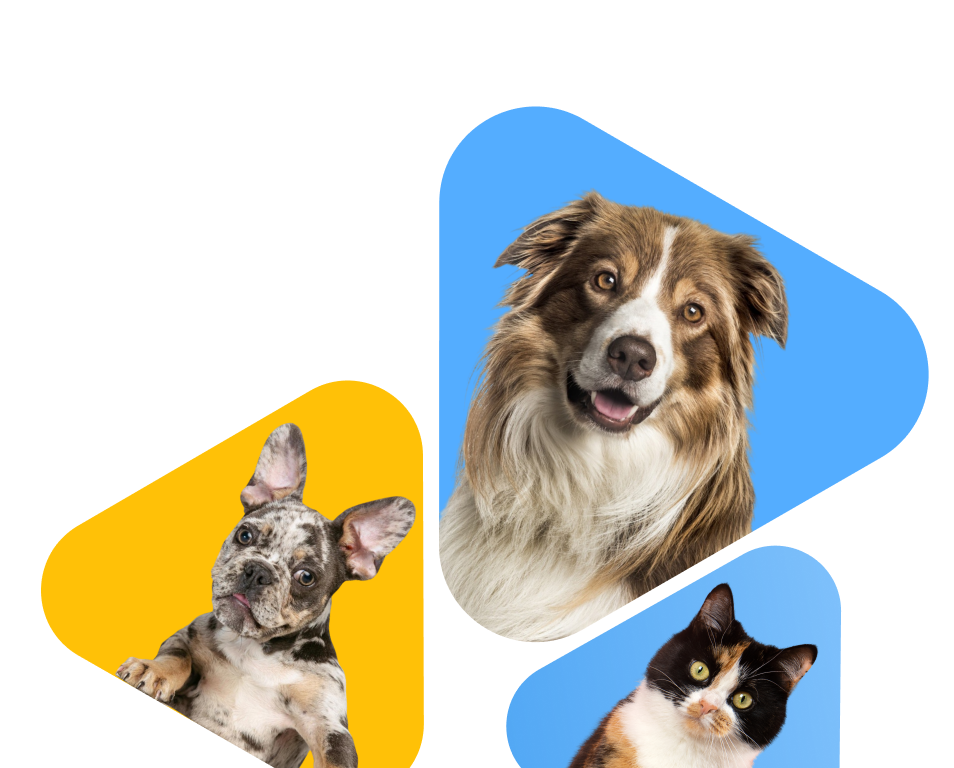
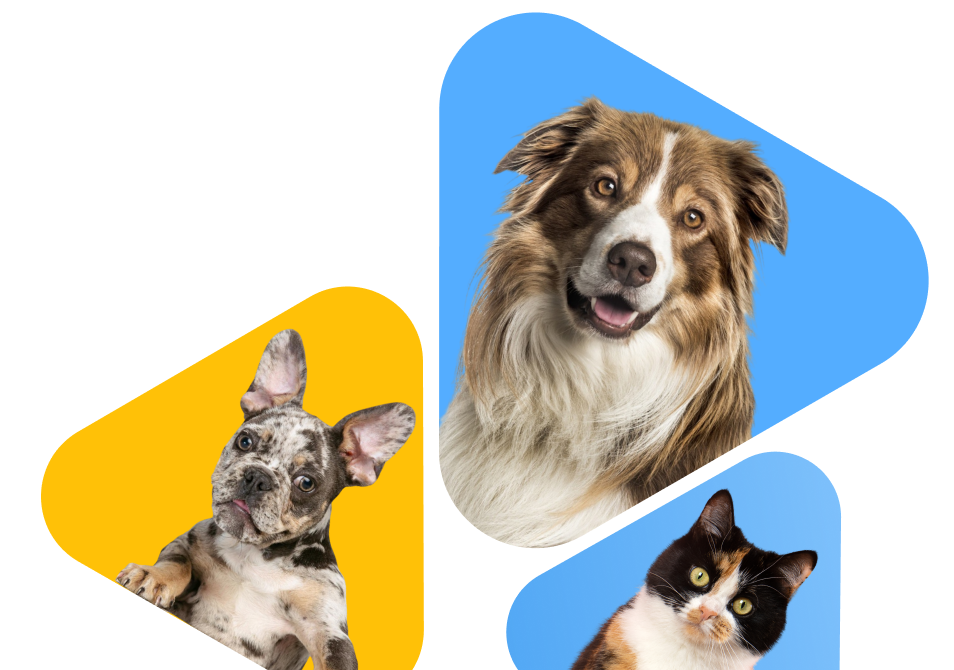
do section Main

diff --git a/src/modules/Main/main.module.css b/src/modules/Main/main.module.css
@@ -1,37 +1,52 @@
-/* @media screen and (max-width: 767px) {
+.sectionMain {
+  padding-top: 60px;
+  width: 100%;
+}
+
+@media screen and (min-width: 768px) {
   .sectionMain {
-    position: relative;
-    padding-top: 60px;
-    background-image: url('../../images/bg-mobile.jpg');
-    background-position: bottom;
-    background-repeat: no-repeat;
-    height: 100vh;
-    width: 100%;
+    padding-top: 80px;
+    background-image: url('../../images/bg-tablet.jpg');
   }
 
   @media (min-device-pixel-ratio: 2),
     (min-resolution: 192dpi),
     (min-resolution: 2dppx) {
     .sectionMain {
-      background-image: url('../../images/bg-mobile2xjpg.jpg');
+      background-image: url('../../images/bg-tablet2x.jpg');
     }
   }
-} */
+}
 
-.sectionMain {
-  position: relative;
-  height: 100vh;
+@media screen and (min-width: 1280px) {
+  .sectionMain {
+    background-image: url('../../images/bg-desctop.jpg');
+    padding-top: 0px;
+  }
+
+  @media (min-device-pixel-ratio: 2),
+    (min-resolution: 192dpi),
+    (min-resolution: 2dppx) {
+    .sectionMain {
+      background-image: url('../../images/bg-desctop2x.jpg');
+    }
+  }
+}
+
+@media screen and (min-width: 1300px) {
+  .sectionMain {
+    width: 100vw;
+    align-content: center;
+  }
 }
 
 @media screen and (max-width: 767px) {
   .wrapper {
     background-image: url('../../images/dogs-mobile@1x.png');
     background-repeat: no-repeat;
-    position: absolute; /* Встановлюємо позицію елемента як абсолютну */
-    bottom: 0; /* Вирівнюємо елемент за нижнім краєм секції */
-    left: 0; /* Вирівнюємо елемент за лівим краєм секції */
-    width: 474px; /* Займаємо всю ширину секції */
-    height: 50px;
+    background-position: bottom, right -20%;
+    width: 100%;
+    height: 394px;
   }
 
   @media (min-device-pixel-ratio: 2),
@@ -43,46 +58,112 @@
   }
 }
 
-@media screen and (min-width: 768px) {
-  .sectionMain {
-    background-image: url('../../images/dogs-tablet@1x.png'),
-      url('../../images/bg-tablet.jpg');
-    background-position: bottom, 22% calc(9vh + 100%);
+/* @media screen and (min-width: 321px) and (max-width: 767px) {
+  .wrapper {
+    background-image: url('../../images/dogs-full-width.png');
+    width: 474px;
+    height: 394px;
     background-repeat: no-repeat;
-    height: 100vh;
+    margin-left: auto;
+    margin-right: auto;
   }
 
   @media (min-device-pixel-ratio: 2),
     (min-resolution: 192dpi),
     (min-resolution: 2dppx) {
-    .sectionMain {
-      background-image: url('../../images/dogs-tablet@2x.png'),
-        url('../../images/bg-tablet2x.jpg');
+    .wrapper {
+      background-image: url('../../images/dogs-full-width@2x.png');
     }
+  }
+} */
+
+@media screen and (min-width: 768px) {
+  .wrapper {
+    background-image: url('../../images/dogs-tablet@1x.png');
+    background-position: bottom, 22% calc(9vh + 100%);
+    background-repeat: no-repeat;
+    width: 100%;
+    height: 818px;
+  }
+
+  @media (min-device-pixel-ratio: 2),
+    (min-resolution: 192dpi),
+    (min-resolution: 2dppx) {
+    .wrapper {
+      background-image: url('../../images/dogs-tablet@2x.png');
+    }
+  }
+}
+
+/* @media screen and (min-width: 769px) and (max-width: 1280px) {
+  .wrapper {
+    background-image: url('../../images/dog-full-tablet@1x.png');
+    background-position: -50%, -5px;
+    background-repeat: no-repeat;
+    width: 100%;
+    height: 818px;
+  }
+
+  @media (min-device-pixel-ratio: 2),
+    (min-resolution: 192dpi),
+    (min-resolution: 2dppx) {
+    .wrapper {
+      background-image: url('../../images/dog-full-tablet@2x.png');
+    }
+  }
+} */
+
+@media screen and (min-width: 1280px) {
+  .wrapper {
+    background-image: url('../../images/dogs-desktop@1x.png');
+    background-position: bottom right;
+    background-repeat: no-repeat;
+    background-size: contain;
+    height: 617px;
+  }
+
+  @media (min-device-pixel-ratio: 2),
+    (min-resolution: 192dpi),
+    (min-resolution: 2dppx) {
+    .wrapper {
+      background-image: url('../../images/dogs-desktop@2x.png');
+    }
+  }
+}
+
+.positionText {
+  position: relative;
+}
+
+.text {
+  margin-bottom: 20px;
+  width: 280px;
+  margin-left: auto;
+  margin-right: auto;
+  font-weight: 700;
+  font-size: 32px;
+  line-height: 44px;
+}
+
+@media screen and (min-width: 768px) {
+  .text {
+    display: inline-block;
+    margin-bottom: 24px;
+    width: 588px;
+    font-size: 68px;
+    line-height: 100px;
   }
 }
 
 @media screen and (min-width: 1280px) {
-  .sectionMain {
-    background-image: url('../../images/dogs-desktop@1x.png'),
-      url('../../images/bg-desctop.jpg');
-    background-position: bottom, 60% calc(22vh + 100%);
-    background-repeat: no-repeat;
-    background-size: contain;
-    height: calc(100vh - 99px);
-    padding-top: 0px;
+  .text {
+    position: absolute;
+    bottom: 25%;
+    left: 0;
+    margin-bottom: 0;
+    width: 501px;
+    font-weight: 800;
+    font-size: 68px;
+    line-height: 88px;
   }
-
-  @media (min-device-pixel-ratio: 2),
-    (min-resolution: 192dpi),
-    (min-resolution: 2dppx) {
-    .sectionMain {
-      background-image: url('../../images/dogs-desktop@2x.png'),
-        url('../../images/bg-desctop2x.jpg');
-    }
-  }
-}
-
-.text {
-  margin-bottom: 30px;
 }

diff --git a/src/modules/Main/Main.jsx b/src/modules/Main/Main.jsx
@@ -1,8 +1,17 @@
+import css from './main.module.css';
+
 const Main = () => {
   return (
     <>
-      <h2>Main</h2>
-      
+      <section className={css.sectionMain}>
+        <div className="container">
+          <div className={css.positionText}>
+            <h1 className={css.text}>Take good care of your small pets</h1>
+
+            <div className={css.wrapper}></div>
+          </div>
+        </div>
+      </section>
     </>
   );
 };
